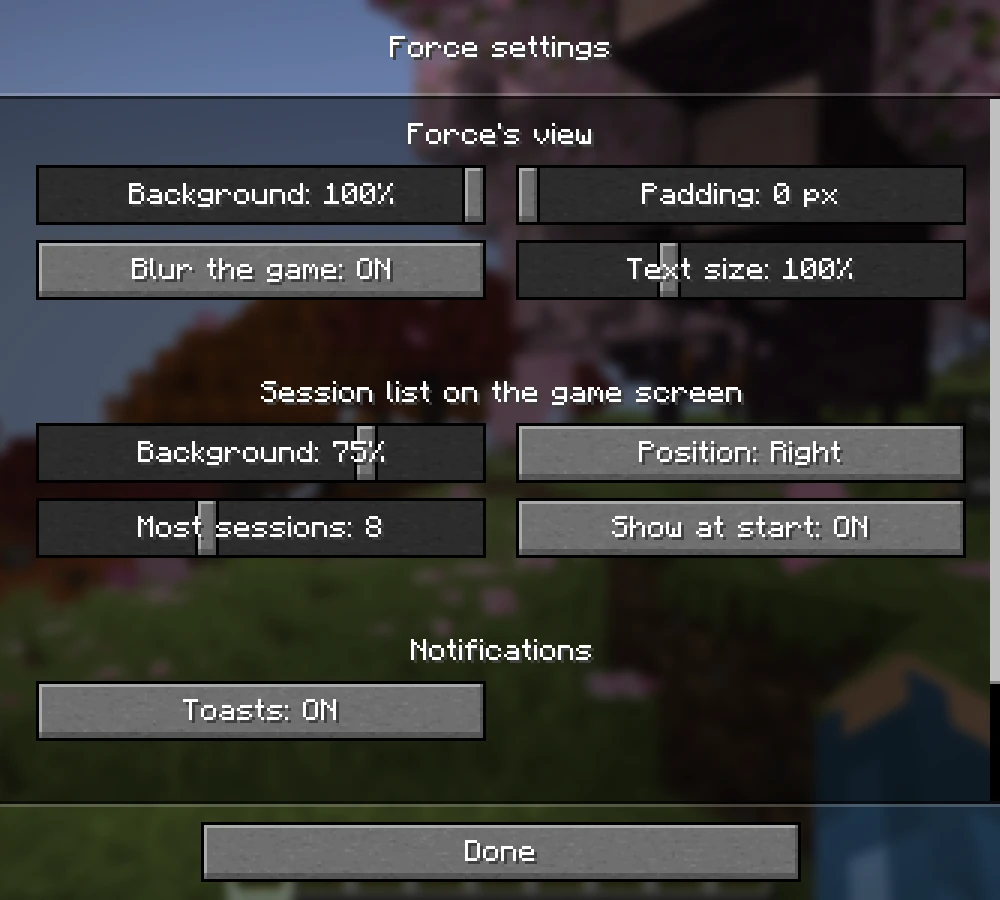
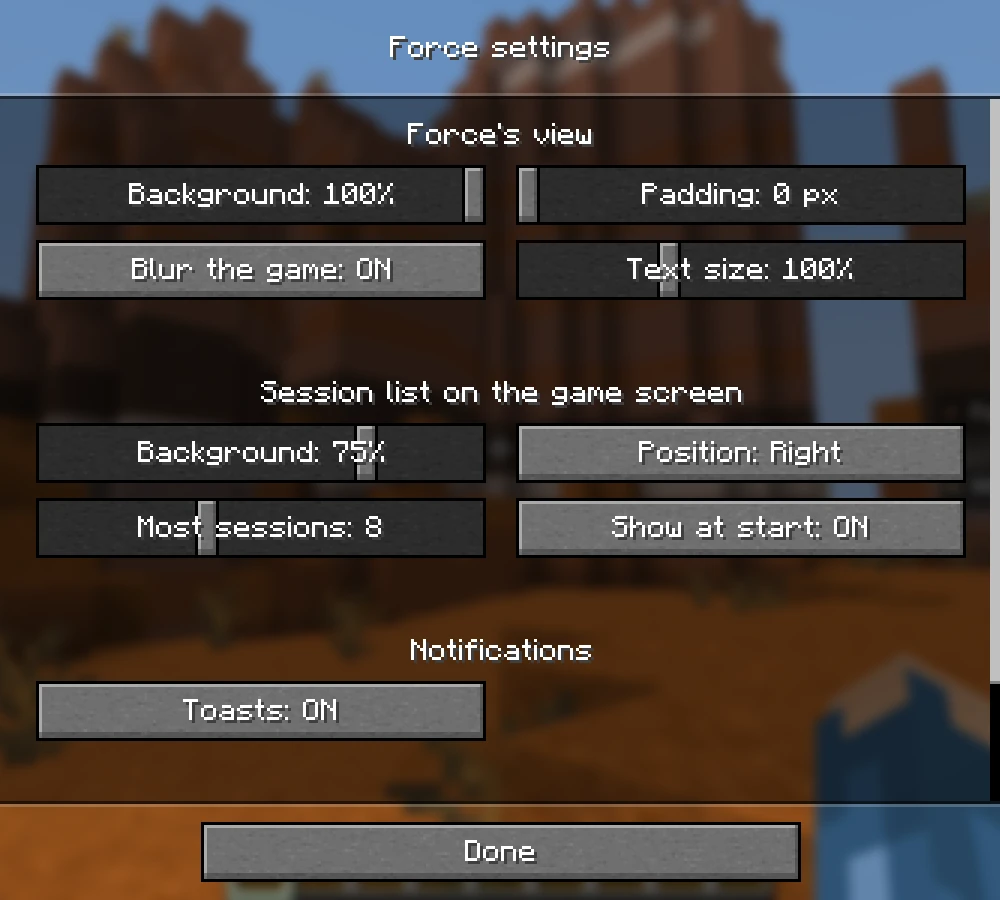
feat: Ctrl+click opens a link; README pictures in the badlands
- A web link in Force's view is underlined on hover with a hint, and Ctrl+click opens it in the
  browser (http and https only, through the system's opener, as a terminal does); the click is
  not passed to Force. Links (core) finds them, unit-tested
- The game tests stand in this seed's eroded badlands (Force's oranges) on a machine called
  laptop

diff --git a/src/gametest/java/cc/useforce/mc/ConsoleGameTest.java b/src/gametest/java/cc/useforce/mc/ConsoleGameTest.java
@@ -40,14 +40,14 @@ public class ConsoleGameTest implements FabricClientGameTest {
         }
     }
 
-    /** A real world for the README's pictures: this seed's nearest cherry grove, a clear morning. */
+    /** A real world for the README's pictures: this seed's nearest eroded badlands, Force's oranges. */
     private static final String SEED = "useforce";
 
     private static void scenery(ClientGameTestContext ctx, TestSingleplayerContext world) {
-        // the ground (not the treetops) next to this seed's nearest cherry grove
+        // the ground (not the treetops) in this seed's nearest eroded badlands
         net.minecraft.core.BlockPos spot = world.getServer().computeOnServer(server -> {
             var level = server.overworld();
-            var found = level.findClosestBiome3d(b -> b.is(net.minecraft.world.level.biome.Biomes.CHERRY_GROVE),
+            var found = level.findClosestBiome3d(b -> b.is(net.minecraft.world.level.biome.Biomes.ERODED_BADLANDS),
                     net.minecraft.core.BlockPos.ZERO, 6400, 32, 64);
             if (found == null) return null;
             int x = found.getFirst().getX() + 1, z = found.getFirst().getZ();
@@ -65,8 +65,8 @@ public class ConsoleGameTest implements FabricClientGameTest {
                 // the rule's name differs between versions: one of each pair works
             }
         }
-        if (spot != null)                                                              // facing the cherry trees
-            world.getServer().runCommand("tp @a " + (spot.getX() + 0.5) + " " + spot.getY() + " " + (spot.getZ() + 0.5) + " 135 2");
+        if (spot != null)                                              // looking up at the terracotta spires
+            world.getServer().runCommand("tp @a " + (spot.getX() + 0.5) + " " + spot.getY() + " " + (spot.getZ() + 0.5) + " 135 -8");
         ctx.waitTicks(40);
         world.getConnection().waitForChunksRender();
         ctx.waitTicks(20);
@@ -124,6 +124,37 @@ public class ConsoleGameTest implements FabricClientGameTest {
         ctx.getInput().typeChars("echo typed into force");
         ctx.getInput().pressKey(InputConstants.KEY_RETURN);
         ctx.waitFor(mc -> count(text(mod.app().snapshot()), "typed into force") >= 2, 20 * 15);
+
+        // a web link: hovered, it is underlined with a hint; Ctrl+click opens it and is not a click for Force
+        ctx.getInput().typeChars("echo see https://useforce.cc/docs.");
+        ctx.getInput().pressKey(InputConstants.KEY_RETURN);
+        ctx.waitFor(mc -> count(text(mod.app().snapshot()), "https://useforce.cc/docs") >= 2, 20 * 15);
+        double[] at = ctx.computeOnClient(mc -> {
+            var s = mod.app().snapshot();
+            for (int r = s.rows() - 1; r >= 0; r--) {
+                String cells = cc.useforce.mc.core.Links.cells(s.lines().get(r));
+                int i = cells.indexOf("https://useforce.cc/docs");
+                if (i < 0) continue;
+                var l = cc.useforce.mc.core.Links.at(cells, r, i + 3);
+                if (l == null || !l.url().equals("https://useforce.cc/docs"))
+                    throw new AssertionError("link: " + l + " in " + cells);
+                var w = mc.getWindow();
+                var lay = AppScreen.layout(mod.config(), w.getGuiScale(), w.getWidth(), w.getHeight());
+                return new double[]{lay.x() + (i + 4) * lay.cw() + lay.cw() / 2.0, lay.y() + r * lay.ch() + lay.ch() / 2.0,
+                        w.getGuiScale()};
+            }
+            throw new AssertionError("no link on screen");
+        });
+        ctx.getInput().setCursorPos(at[0], at[1]);
+        ctx.waitTicks(5);
+        ctx.takeScreenshot("4a-app-link-hover");
+        ctx.runOnClient(mc -> {
+            boolean took = mc.gui.screen().mouseClicked(new net.minecraft.client.input.MouseButtonEvent(at[0] / at[2],
+                    at[1] / at[2], new net.minecraft.client.input.MouseButtonInfo(InputConstants.MOUSE_BUTTON_LEFT,
+                    InputConstants.MOD_CONTROL)), false);
+            if (!took || !(mc.gui.screen() instanceof AppScreen)) throw new AssertionError("Ctrl+click on a link");
+        });
+        ctx.getInput().setCursorPos(2, 2);
 
         // Ctrl+Space: Force's menu (the test input has no modifiers: the event goes to the screen as SDL/GLFW sends it)
         ctx.runOnClient(mc -> mc.gui.screen().keyPressed(

diff --git a/src/main/java/cc/useforce/mc/core/Links.java b/src/main/java/cc/useforce/mc/core/Links.java
@@ -1,0 +1,78 @@
+package cc.useforce.mc.core;
+
+import java.util.List;
+import java.util.regex.Matcher;
+import java.util.regex.Pattern;
+
+/**
+ * Web links on a terminal screen, found the way terminals find them: `http://` or `https://` text, without the
+ * punctuation a sentence puts after it. Plain Java on {@link TerminalBuffer} runs, so it is unit-tested.
+ */
+public final class Links {
+    /** A link on one row: its address and the cells it takes, [start, end). */
+    public record Link(String url, int row, int start, int end) {}
+
+    private static final Pattern URL = Pattern.compile("https?://[^\\s<>\"'`\\x00-\\x1f\\x7f]+");
+    private static final char OTHER = '\u0001';             // a cell no address has (not ASCII, a wide one's tail)
+
+    private Links() {}
+
+    /** One character per cell for a row's runs: ASCII as it is, anything else as a cell no link continues through. */
+    public static String cells(List<TerminalBuffer.Run> runs) {
+        StringBuilder b = new StringBuilder();
+        for (TerminalBuffer.Run r : runs) {
+            String t = r.text();
+            for (int i = 0; i < t.length(); ) {
+                int cp = t.codePointAt(i);
+                i += Character.charCount(cp);
+                if (cp == 0xFE0F) continue;                  // an emoji's marker takes no cell
+                b.append(cp > 0 && cp < 0x80 ? (char) cp : OTHER);
+            }
+        }
+        return b.toString();
+    }
+
+    /** The link covering cell `col` of a row (its {@link #cells}), or null. */
+    public static Link at(String cells, int row, int col) {
+        if (col < 0 || col >= cells.length()) return null;
+        Matcher m = URL.matcher(cells);
+        while (m.find()) {
+            if (m.start() > col) break;
+            String url = trim(m.group());
+            int end = m.start() + url.length();
+            if (col < end && url.indexOf("://") + 3 < url.length())                 // something after the scheme
+                return new Link(url, row, m.start(), end);
+        }
+        return null;
+    }
+
+    /** A sentence's punctuation after an address is not part of it; a closing bracket is, when the address opened it. */
+    static String trim(String url) {
+        String u = url;
+        while (!u.isEmpty()) {
+            char last = u.charAt(u.length() - 1);
+            if (".,;:!?*".indexOf(last) >= 0) {
+                u = u.substring(0, u.length() - 1);
+                continue;
+            }
+            char open = switch (last) {
+                case ')' -> '(';
+                case ']' -> '[';
+                case '}' -> '{';
+                default -> 0;
+            };
+            if (open != 0 && count(u, open) < count(u, last)) {
+                u = u.substring(0, u.length() - 1);
+                continue;
+            }
+            break;
+        }
+        return u;
+    }
+
+    private static int count(String s, char c) {
+        int n = 0;
+        for (int i = 0; i < s.length(); i++) if (s.charAt(i) == c) n++;
+        return n;
+    }
+}

diff --git a/src/client/java/cc/useforce/mc/AppScreen.java b/src/client/java/cc/useforce/mc/AppScreen.java
@@ -2,6 +2,7 @@ package cc.useforce.mc;
 
 import cc.useforce.mc.core.AppTerminal;
 import cc.useforce.mc.core.Keys;
+import cc.useforce.mc.core.Links;
 import cc.useforce.mc.core.TerminalBuffer;
 import cc.useforce.mc.core.Vt;
 import cc.useforce.mc.core.VtInput;
@@ -33,6 +34,7 @@ public final class AppScreen extends Screen implements Blur {
     private final StringBuilder typed = new StringBuilder();
     private int scale = 1, px = 16, ox, oy, cw = 1, ch = 1;
     private int held = -1;                             // the xterm button held down, for drags
+    private Links.Link hover;                          // the web link under the mouse: Ctrl+click opens it
 
     AppScreen(ForceClient mod) {
         super(Component.translatable("force_mc.console.title"));
@@ -106,6 +108,16 @@ public final class AppScreen extends Screen implements Blur {
         if (problem != null && s.cols() == 0) c.text(problem, ox, oy, px, Theme.RED, false);
         else view.draw(c, ox, oy, grid.cols() * cw, grid.rows() * ch, s, px, true);
         if (problem != null && s.cols() > 0) c.text(problem, ox, oy + grid.rows() * ch - ch, px, Theme.RED, false);
+        hover = link(s, mx, my);
+        if (hover != null) {                           // underlined, with how to open it beside the mouse
+            int y = oy + hover.row() * ch + GlyphAtlas.get().metrics(px).baseline() + Math.max(1, px / 12);
+            c.fill(ox + hover.start() * cw, y, (hover.end() - hover.start()) * cw, Math.max(1, px / 14), Theme.BLUE);
+            String hint = "Ctrl+click to open";
+            int hpx = Math.max(12, px * 3 / 4), hw = c.textWidth(hint, hpx, false) + hpx, hh = Theme.line(hpx) + hpx / 3;
+            int hx = Math.min(mx * scale + px, c.width() - hw - 2), hy = Math.min(my * scale + px, c.height() - hh - 2);
+            Panel.draw(c, hx, hy, hw, hh);
+            c.text(hint, hx + hpx / 2, hy + hpx / 6, hpx, Theme.SOFT, false);
+        }
         c.end();
     }
 
@@ -168,8 +180,22 @@ public final class AppScreen extends Screen implements Blur {
         return true;
     }
 
+    /** The web link at a mouse position (GUI units), or null. */
+    private Links.Link link(TerminalBuffer.Snapshot s, double x, double y) {
+        int c = col(x), r = row(y);
+        if (r < 0 || r >= s.rows() || r >= s.lines().size() || c < 0 || c >= s.cols()) return null;
+        return Links.at(Links.cells(s.lines().get(r)), r, c);
+    }
+
     @Override
     public boolean mouseClicked(MouseButtonEvent e, boolean doubleClick) {
+        if (e.button() == InputConstants.MOUSE_BUTTON_LEFT && keys.ctrl(e.modifiers())) {   // Ctrl+click: a link opens
+            Links.Link l = link(mod.app().snapshot(), e.x(), e.y());
+            if (l != null) {
+                OpenLink.open(l.url());
+                return true;
+            }
+        }
         held = xtermButton(e.button());
         return report(held, true, false, e.x(), e.y(), e.modifiers());
     }

diff --git a/src/test/java/cc/useforce/mc/core/LinksTest.java b/src/test/java/cc/useforce/mc/core/LinksTest.java
@@ -1,0 +1,56 @@
+package cc.useforce.mc.core;
+
+import org.junit.jupiter.api.Test;
+
+import java.util.List;
+
+import static org.junit.jupiter.api.Assertions.*;
+
+class LinksTest {
+    private static TerminalBuffer.Run run(String text) {
+        return new TerminalBuffer.Run(text, null, null, false, false, false, false, false);
+    }
+
+    @Test
+    void aLinkUnderTheCell() {
+        String row = "see https://github.com/x/y/pull/8 for it";
+        Links.Link l = Links.at(row, 3, 10);
+        assertNotNull(l);
+        assertEquals("https://github.com/x/y/pull/8", l.url());
+        assertEquals(3, l.row());
+        assertEquals(4, l.start());
+        assertEquals(4 + l.url().length(), l.end());
+        assertNull(Links.at(row, 3, 2), "before it");
+        assertNull(Links.at(row, 3, l.end()), "the space after it");
+    }
+
+    @Test
+    void aSentencesPunctuationIsNotPartOfIt() {
+        assertEquals("https://useforce.cc", Links.at("Go to https://useforce.cc.", 0, 8).url());
+        assertEquals("https://a.b/c", Links.at("(see https://a.b/c)", 0, 8).url());
+        assertEquals("https://en.wikipedia.org/wiki/Tmux_(software)",
+                Links.at("https://en.wikipedia.org/wiki/Tmux_(software), done", 0, 3).url());
+        assertEquals("http://x.y/?a=1", Links.at("http://x.y/?a=1!", 0, 0).url());
+    }
+
+    @Test
+    void notALink() {
+        assertNull(Links.at("https:// nothing", 0, 2));
+        assertNull(Links.at("ftp://x.y", 0, 2));
+        assertNull(Links.at("", 0, 0));
+        assertNull(Links.at("abc", 0, 7));
+    }
+
+    @Test
+    void cellsFromRuns() {
+        // a wide emoji takes two cells, its VS16 none; a link after it keeps its columns
+        String cells = Links.cells(List.of(run("✅\u0000 "), run("⚠"), run(" https://a.b")));
+        assertEquals(4 + 1 + "https://a.b".length(), cells.length());
+        Links.Link l = Links.at(cells, 0, 6);
+        assertNotNull(l);
+        assertEquals(5, l.start());
+        assertEquals("https://a.b", l.url());
+        assertNull(Links.at("\u0001https://a.b\u0001x", 0, 0));
+        assertEquals("https://a.b", Links.at("\u0001https://a.b\u0001x", 0, 3).url(), "stops at a cell no address has");
+    }
+}

diff --git a/src/client/java/cc/useforce/mc/OpenLink.java b/src/client/java/cc/useforce/mc/OpenLink.java
@@ -1,0 +1,35 @@
+package cc.useforce.mc;
+
+import java.io.IOException;
+import java.net.URI;
+import java.util.Locale;
+
+/**
+ * Opens a web link in the browser, as a terminal does: the system's opener (xdg-open, open), never a shell. Only
+ * http and https: a link on a screen is text anyone could have printed, so files and other schemes are not opened.
+ * Minecraft's own opener moved between 26.2 and 26.3; this works the same on both.
+ */
+final class OpenLink {
+    private OpenLink() {}
+
+    static boolean open(String url) {
+        URI uri;
+        try {
+            uri = URI.create(url);
+        } catch (IllegalArgumentException e) {
+            return false;
+        }
+        String scheme = uri.getScheme() == null ? "" : uri.getScheme().toLowerCase(Locale.ROOT);
+        if (!scheme.equals("http") && !scheme.equals("https") || uri.getHost() == null) return false;
+        String os = System.getProperty("os.name", "").toLowerCase(Locale.ROOT);
+        String[] cmd = os.contains("mac") ? new String[]{"open", uri.toString()}
+                : os.contains("win") ? new String[]{"rundll32", "url.dll,FileProtocolHandler", uri.toString()}
+                : new String[]{"xdg-open", uri.toString()};
+        try {
+            new ProcessBuilder(cmd).redirectErrorStream(true).redirectOutput(ProcessBuilder.Redirect.DISCARD).start();
+            return true;
+        } catch (IOException e) {
+            return false;
+        }
+    }
+}

diff --git a/CONTRIBUTING.md b/CONTRIBUTING.md
@@ -69,6 +69,7 @@ src/main/java/cc/useforce/mc/core/      plain Java, no Minecraft (unit-tested)
   TerminalBuffer                        the screen both fill: the only thing the view draws
   Intent, Controller                    what the player wants, from any gesture; carried out in one place
   Keys, Widths                          key names as tmux knows them; character widths as tmux counts them
+  Links                                 web links on a screen, as terminals find them (Ctrl+click opens one)
 src/client/java/cc/useforce/mc/         Minecraft
   ui/Theme, Panel                       Force's colours and the glass panels
   ui/SessionList, ui/TerminalView       widgets: draw a model / a buffer, answer "what is here"

diff --git a/README.md b/README.md
@@ -82,6 +82,7 @@ Change them in Options → Controls → Key Binds → Force. A key can be a comb
 <kbd>Esc</kbd> hides Force instead, so you can always get out.
 
 The mouse works where Force asks for it: click its session cards, header and menus, and scroll with the wheel.
+Links open in your browser with <kbd>Ctrl</kbd>+click, as in a terminal.
 
 ## Settings
 
